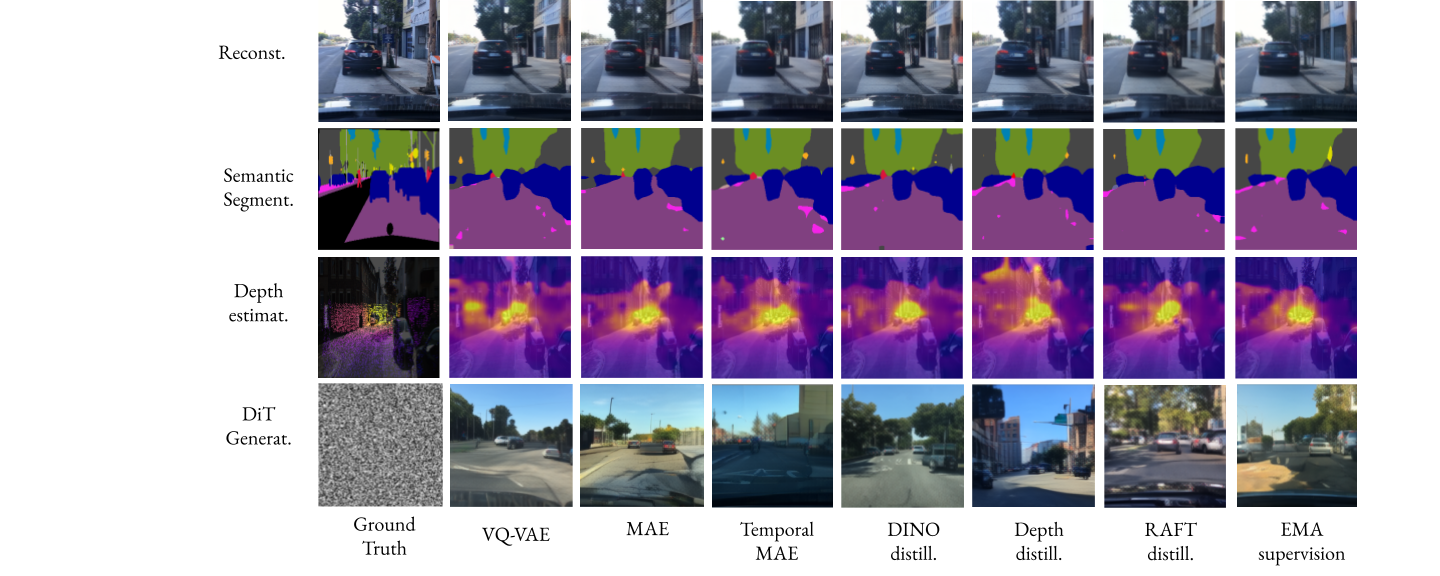
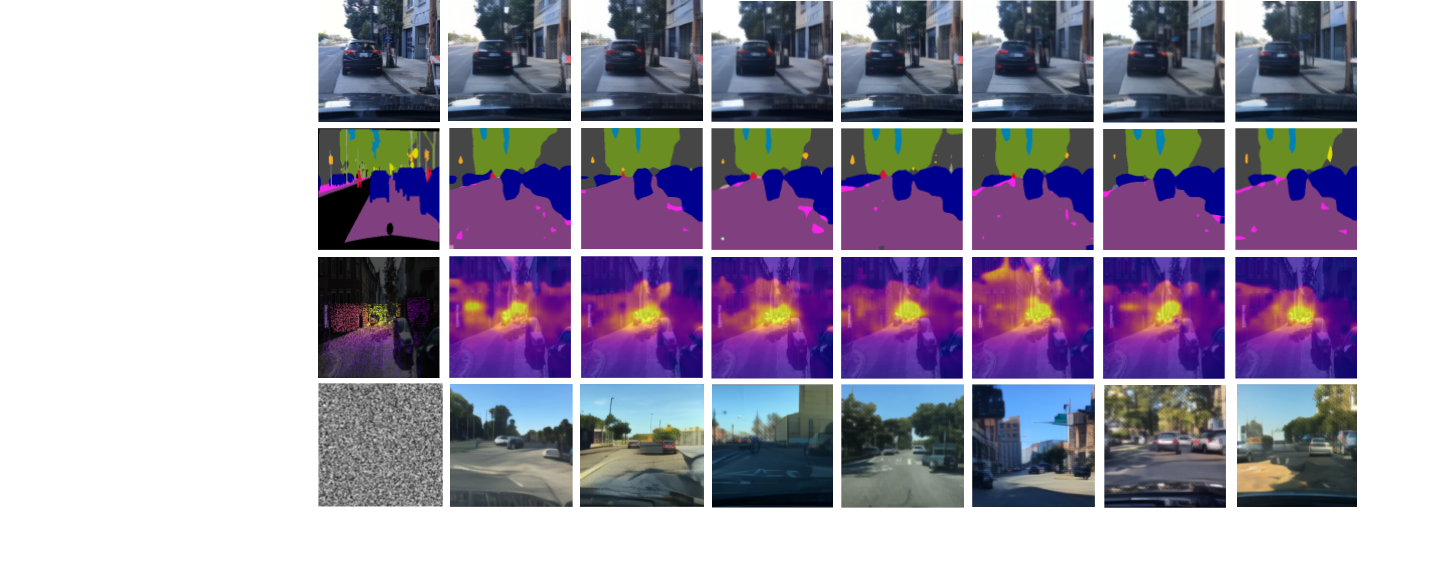
update readme

diff --git a/README.md b/README.md
@@ -4,8 +4,8 @@ This repository hosts the code for a tokenizers that preserve both the semantic 
 
 <table>
   <tr>
-    <td align="center"><img src="imgs/model_perf.png" width="200"/></td>
-    <td align="center"><img src="imgs/visuals.png" width="400"/></td>
+    <td align="center"><img src="imgs/model_perf.png" width="300"/></td>
+    <td align="center"><img src="imgs/visuals.png" width="600"/></td>
   </tr>
   <tr>
     <td align="center">Figure 1 : Performance of tokenizer across all 4 axes</td>
@@ -57,7 +57,7 @@ We have select the effective batch size of 128 for all our experiments.
 python main.py --base configs/generation.yaml -t True --n_gpus=4
 ```
 
-We do not make any changes in the generation code. Its sole purpose is evaluation and has been maintained as is. Original repository reference : [Orbis] (https://github.com/lmb-freiburg/orbis.git)
+We do not make any changes in the generation code. Its sole purpose is evaluation and has been maintained as is. Original repository reference : [Orbis](https://github.com/lmb-freiburg/orbis.git)
 
 ### Evaluations
 
